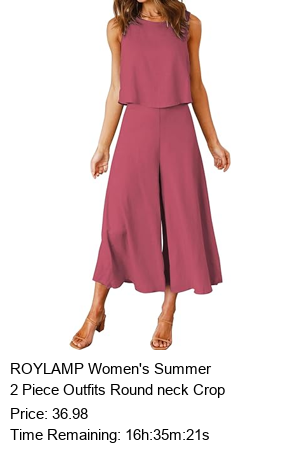
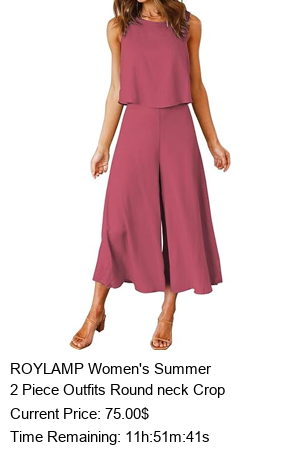
project completed

diff --git a/CS50w/Project_Commerce/auctions/templates/auctions/bidding.html b/CS50w/Project_Commerce/auctions/templates/auctions/bidding.html
@@ -10,7 +10,9 @@
             {% for image in images %}
                 <img src="{{ MEDIA_URL }}items/{{ item_number }}/{{ image }}" alt="images">
             {% endfor %}
+            {% if auction.image_url %}
             <img src="{{ auction.image_url }}" style="max-width: 300px; max-height: 350px;">
+            {% endif %}
         </div>
         <div class="item_details">
             <h3>Title</h3>
@@ -18,9 +20,9 @@
             <h3>Details</h3>
             <p>{{ auction.details|linebreaksbr }}</p>
             <h3>Starting price</h3>
-            <p>{{ auction.price }}</p>
+            <p>{{ auction.price }}$</p>
             <h3>Current Price</h3>
-            <p>{{ highest_bid }}</p>
+            <p>{{ highest_bid }}$</p>
         </div>
     </div>
     <div class="right_column">
@@ -32,7 +34,7 @@
             <h3>Close Time</h3>
             <p>{{ auction.end_time }}</p>
         </div>
-    {% if auction.is_active %}
+    
         {% if user.is_authenticated %}
             {% if not is_creator %}
                 <form action="{% url 'auctions:watchlist' %}" method="post">
@@ -45,16 +47,16 @@
                     {% endif %}
                 </form>
             {% endif %}
-        
-            {% if is_creator %}
-                <form action="{% url 'auctions:closelist' %}" method="post">
-                    {% csrf_token %}
-                    <input type="hidden" name="item_number" value="{{ item_number }}">
-                    <button type="submit" class="close-auction-button">Close auction</button>
-                </form>
+            {% if auction.is_active %}
+                {% if is_creator %}
+                    <form action="{% url 'auctions:closelist' %}" method="post">
+                        {% csrf_token %}
+                        <input type="hidden" name="item_number" value="{{ item_number }}">
+                        <button type="submit" class="close-auction-button">Close auction</button>
+                    </form>
+                {% endif %}
             {% endif %}
         {% endif %}
-    {% endif %}
     {% if not auction.is_active %}
         {% if winner %}
             {% if user.is_authenticated %}
@@ -90,7 +92,7 @@
         <h4>Bidding</h4>
         {% for obj in biddings %} 
         <p>
-            {{ obj.user }} - {{ obj.bid }}
+            {{ obj.user }} - {{ obj.bid }}$
         </p>
         {% endfor %}
     </div>

diff --git a/CS50w/Project_Commerce/auctions/static/auctions/css/style.css b/CS50w/Project_Commerce/auctions/static/auctions/css/style.css
@@ -165,8 +165,9 @@ align-items: center;
 .active-listing {
 display: flex;
 flex-wrap: wrap;
-justify-content: center;
-gap: 20px; /* Adjust as needed */
+justify-content: flex-start; 
+margin-left: 200px; 
+gap: 20px;
 }
 
 .active-listing a {
@@ -194,8 +195,9 @@ cursor: pointer;
 .category_listing, .watchlist_listing, .myauction_listing {
     display: flex;
     flex-wrap: wrap;
-    justify-content: center;
-    flex-direction: column;
+    justify-content: flex-start; 
+    margin-left: 200px; 
+    gap: 20px;
 }
 
 .category_item, .watchlist_item, .myauction_item {
@@ -419,5 +421,13 @@ cursor: pointer;
 .comment-button:hover {
     background-color: #0056b3;
 }
+.won-items {
+    padding: 10px;
+    margin-bottom: 20px; 
+}
 
+.won-items a {
+    color: #ff0000;
+    font-weight: bold; 
+}
 

diff --git a/CS50w/Project_Commerce/auctions/templates/auctions/myauction.html b/CS50w/Project_Commerce/auctions/templates/auctions/myauction.html
@@ -31,12 +31,21 @@
 <div class="myauction_bidding">
 <h2>My Bidding</h2>
 <ul>
-{% for title, bids in bidding_mapping.items %}
-    <li>{{ title }}:</li>
-    {% for bid in bids %}
-        <ul>{{ bid }}</ul>
+    {% if won_items %}
+    <div class="won-items"> 
+        {% for item_number, item_data in won_items.items %}
+            <a href="{% url 'auctions:bidding' item_number %}"  style="text-decoration: none">
+                {{ item_data.title }} : {{ item_data.bid_amount }}$  &nbsp&nbspYou Won!
+            </a>
+        {% endfor %} 
+    </div>    
+    {% endif %}
+    {% for title, bids in bidding_mapping.items %}
+        <li>{{ title }}:</li>
+        {% for bid in bids %}
+            <ul>{{ bid }}$</ul>
+        {% endfor %}
     {% endfor %}
-{% endfor %}
 </ul>
 </div>
 </div>

diff --git a/CS50w/Project_Commerce/auctions/views.py b/CS50w/Project_Commerce/auctions/views.py
@@ -88,7 +88,7 @@ def bidding(request, item_number):
                         comment_instance.auction = auction_instance
                         comment_instance.user = request.user
                         comment_instance.save()                       
-                        return render('auctions:bidding', item_number=auction_instance.item_number)
+                        return redirect('auctions:bidding', item_number=auction_instance.item_number)
     else:
         pass
     
@@ -163,7 +163,21 @@ def MyAuctionView(request):
 
     user_involved_items = AuctionList.objects.filter(item_number__in=user_involved_auction_ids).prefetch_related('comments', 'biddings')
 
-    myauction_list = [(watchlist_image(item.item_number), item) for item in my_items]
+    closed_bidded_items = AuctionList.objects.filter(item_number__in=bidding_auction_ids, is_active=False).prefetch_related('biddings')
+    
+    won_items = {}
+
+    for item in closed_bidded_items:
+
+        hightest_bid_amount = highest_bidding(item.item_number)
+        user_bid_amount = item.biddings.filter(user=request.user)
+
+        if user_bid_amount[0].bid == hightest_bid_amount[0]:
+
+            won_items[item.item_number] = {'title': item.title, 'bid_amount': user_bid_amount[0].bid}
+
+
+    myauction_list = [(watchlist_image(item.item_number), item.item_number) for item in my_items]
 
     comment_mapping = {}
     bidding_mapping = {}
@@ -180,6 +194,7 @@ def MyAuctionView(request):
         'myauction_list': myauction_list,
         'comment_mapping': comment_mapping,
         'bidding_mapping': bidding_mapping,
+        'won_items': won_items
     })
 # another method for MyAuctionView
 #  def MyAuctionView(request):

diff --git a/CS50w/Project_Commerce/auctions/util.py b/CS50w/Project_Commerce/auctions/util.py
@@ -91,6 +91,12 @@ def index_image(item_number):
     except AuctionList.DoesNotExist:
         return None
     
+    current_price = auction_data.price
+
+    highest_bid = highest_bidding(auction_data.item_number)
+    
+    highest_bid = highest_bid[0] if (highest_bid and highest_bid[0] > current_price) else current_price
+    
     max_width = 280
     wrapped_short_description = textwrap.fill(auction_data.short_description, width=max_width).replace('\n', ' ')
 
@@ -109,7 +115,7 @@ def index_image(item_number):
     current_time = datetime.now()
     remaining_time = end_time - current_time
     formattd_remaining_time = format_timedelta(remaining_time)
-    texts = [f"{auction_data.title}", wrapped_short_description, f"Price: {auction_data.price}", f"Time Remaining: {formattd_remaining_time}"]
+    texts = [f"{auction_data.title}", wrapped_short_description, f"Current Price: {highest_bid}$", f"Time Remaining: {formattd_remaining_time}"]
 
     y_position = 10
     x_position = 10  
@@ -147,9 +153,12 @@ def highest_bidding(item_number):
         for bid_object in highest_bid_objects:
             if bid_object.bid == highest_bid_amount:
                 highest_bids.append((bid_object.bid, bid_object.user))  
-
+                
+        '''below if was supposed to avoid situations that multiple users bid the same when closed, 
+        but actually by limiting bid value it won't happen
+        '''
         if len(highest_bids) == 1:  
-                return highest_bids[0]
+                return highest_bids[0] 
         else:
             return None           
     else:

diff --git a/CS50w/Project_Commerce/core/views.py b/CS50w/Project_Commerce/core/views.py
@@ -24,7 +24,7 @@ def register(request):
                 bio=cleaned_data['bio']
             ) 
             login(request, user)  
-            return HttpResponseRedirect(reverse("core/register.html"))
+            return HttpResponseRedirect(reverse("auctions:index"))
     else:
         form = UserRegistrationForm()
     return render(request, "core/register.html", {"form": form})

diff --git a/CS50w/Project_Commerce/auctions/forms.py b/CS50w/Project_Commerce/auctions/forms.py
@@ -46,6 +46,7 @@ class SellList(forms.ModelForm):
     
 
 class BiddingForm(forms.ModelForm):
+    bid = forms.DecimalField(widget=forms.NumberInput(attrs={'placeholder': '$'}))
     
     class Meta:
         model = Bidding
